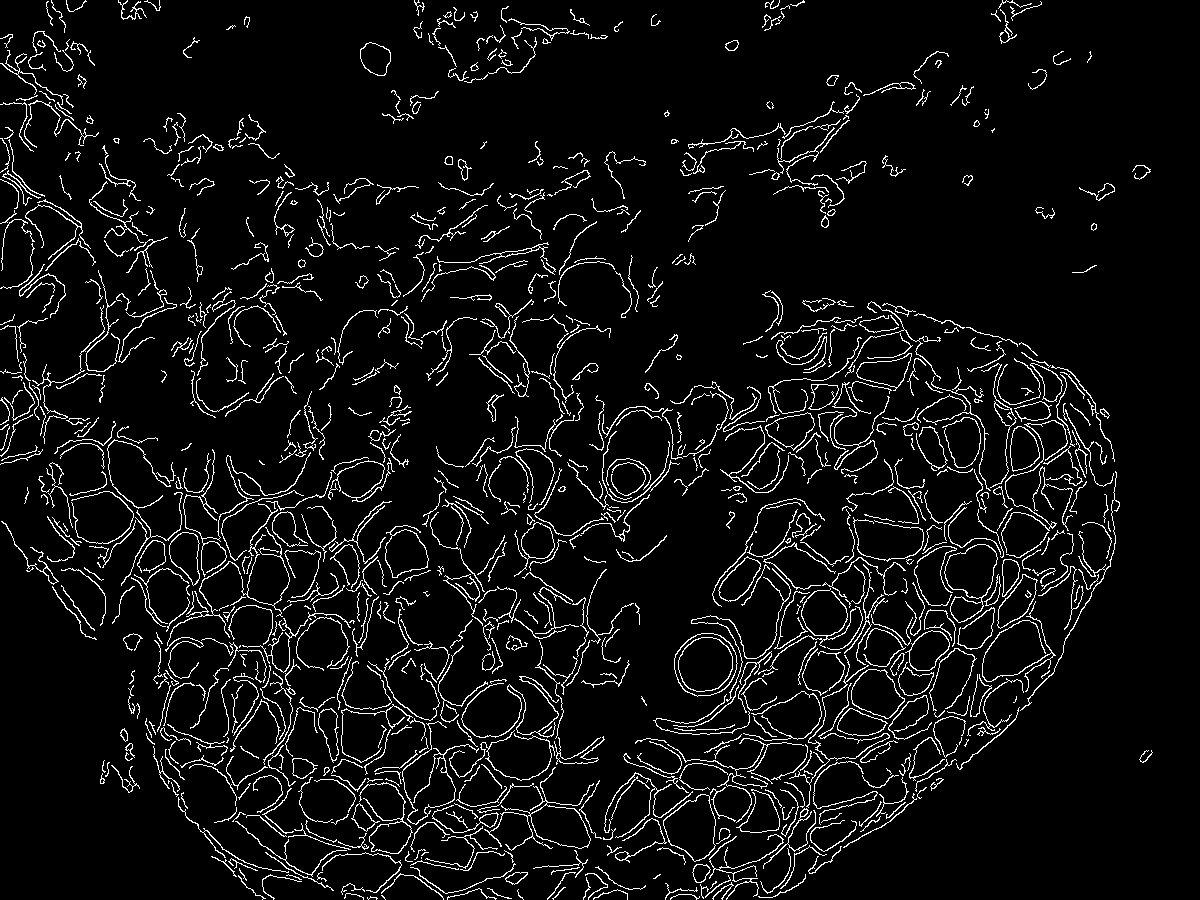
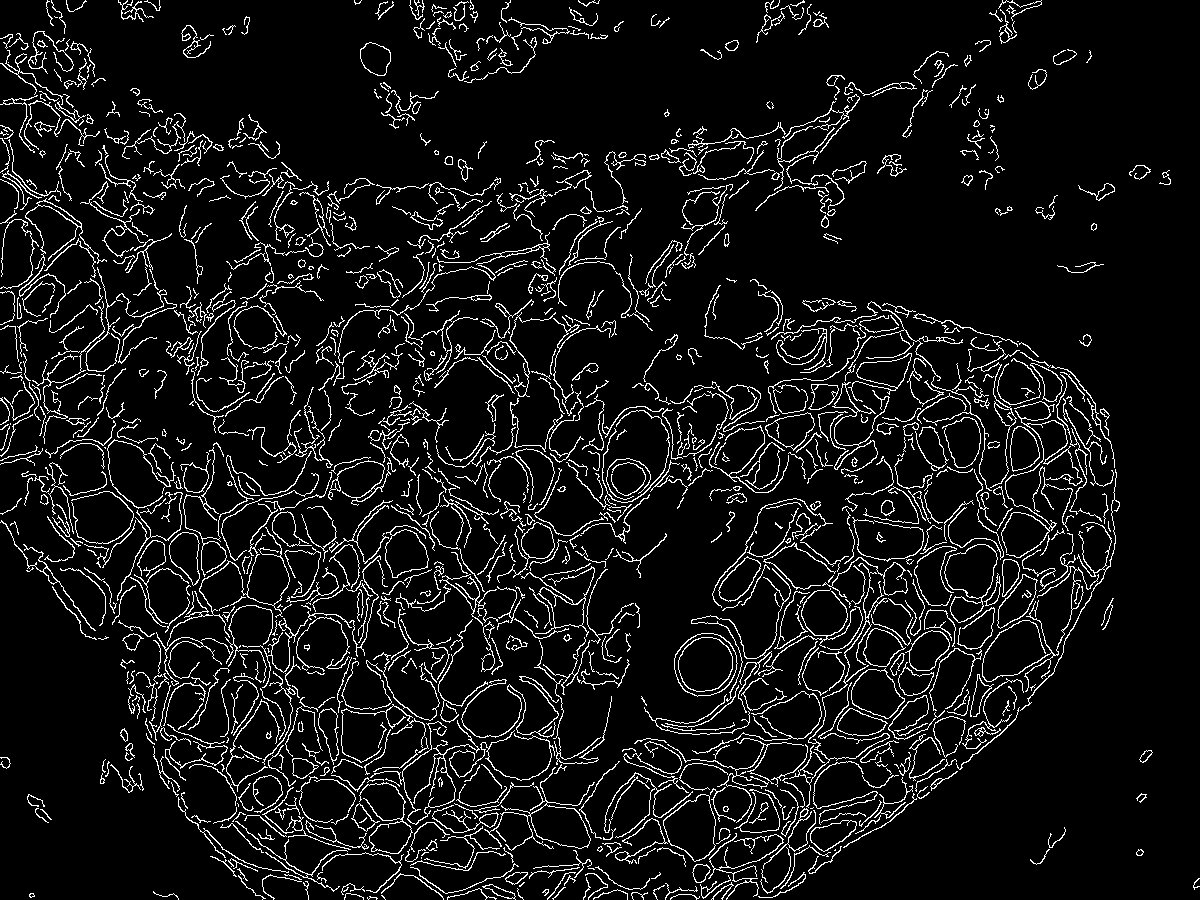
Fix gui cycle bug

diff --git a/src/imageProcessing/ImageProcessing.java b/src/imageProcessing/ImageProcessing.java
@@ -6,14 +6,13 @@ import org.opencv.core.Core;
 import org.opencv.core.KeyPoint;
 import org.opencv.core.Mat;
 import org.opencv.core.MatOfKeyPoint;
-import org.opencv.features2d.AgastFeatureDetector;
 import org.opencv.features2d.Feature2D;
 import org.opencv.features2d.Features2d;
+import org.opencv.features2d.SIFT;
 import org.opencv.imgcodecs.Imgcodecs;
 import org.opencv.imgproc.Imgproc;
 
 import java.util.ArrayList;
-import java.util.Collections;
 import java.util.List;
 
 public class ImageProcessing {
@@ -46,44 +45,46 @@ public class ImageProcessing {
         // ------------------------ KEYPOINTS DETECTION ------------------------
 
         // Create a detector
-        Feature2D detector = AgastFeatureDetector.create();
+        Feature2D detector = SIFT.create(0, 3, 0.04, 10, 1.6);
 
         // Detect keypoints in the image
-        MatOfKeyPoint keypoints = new MatOfKeyPoint();
-        detector.detect(edges, keypoints);
+        MatOfKeyPoint allKeypoints = new MatOfKeyPoint();
+        detector.detect(input, allKeypoints);
 
         // Draw keypoints on the image
         Mat outputImage = new Mat();
-        Features2d.drawKeypoints(edges, keypoints, outputImage);
+        Features2d.drawKeypoints(edges, allKeypoints, outputImage);
 
         // Save the marked keypoints image
-        Imgcodecs.imwrite("img/keypoints.png", outputImage);
+        Imgcodecs.imwrite("img/allKeypoints.png", outputImage);
 
         // ------------------------ KEYPOINTS LIST ------------------------
 
         List<Point> vertices = new ArrayList<>();
-        List<KeyPoint> keyPointsList = keypoints.toList();
-        int keyPointsAdded = 0;
+        List<KeyPoint> keyPointsList = allKeypoints.toList();
+        List<KeyPoint> validKeyPointsList = new ArrayList<>();
+        MatOfKeyPoint validKeyPoints = new MatOfKeyPoint();
 
-        // Reduce point number to MAX_KEYPOINTS
-        Collections.shuffle(keyPointsList);
+        // Get the vertices from the keypoints
         for (KeyPoint keyPoint : keyPointsList) {
-            if (keyPointsAdded >= Main.MAX_KEYPOINTS) break;
-            vertices.add(new Point((int) keyPoint.pt.x, (int) keyPoint.pt.y));
-            keyPointsAdded++;
-        }
-
-        // Remove points that are too close to each other
-        for (int i = 0; i < vertices.size(); i++) {
-            Point point = vertices.get(i);
-            for (int j = i + 1; j < vertices.size(); j++) {
-                Point otherPoint = vertices.get(j);
-                if (point.distanceTo(otherPoint) < Main.POINT_SPACING) {
-                    vertices.remove(j);
-                    j--;
+            if (edges.get((int) keyPoint.pt.y, (int) keyPoint.pt.x)[0] == 255) {
+                Point point = new Point((int) keyPoint.pt.x, (int) keyPoint.pt.y);
+                if (!vertices.contains(point)) {
+                    validKeyPointsList.add(keyPoint);
+                    vertices.add(point);
                 }
             }
         }
+
+        System.out.println("Number of vertices: " + vertices.size());
+        validKeyPoints.fromList(validKeyPointsList);
+
+        // Draw keypoints on the image
+        Mat validKeypoints = new Mat();
+        Features2d.drawKeypoints(edges, validKeyPoints, validKeypoints);
+
+        // Save the marked keypoints image
+        Imgcodecs.imwrite("img/keypoints.png", validKeypoints);
 
         return vertices;
     }

diff --git a/src/graphs/TissueGraph.java b/src/graphs/TissueGraph.java
@@ -49,18 +49,32 @@ public class TissueGraph {
 
         cycleBase.getCycleBasis().getCycles().forEach(cycle -> {
             List<Point> currentCycle = new ArrayList<>();
+            DefaultEdge startEdge = cycle.get(0);
+            DefaultEdge nextEdge = cycle.get(1);
             cycle.forEach(defaultEdge -> {
-                Point source = graph.getEdgeSource(defaultEdge);
-                Point target = graph.getEdgeTarget(defaultEdge);
-                if (!currentCycle.contains(source)) currentCycle.add(source);
-                if (!currentCycle.contains(target)) currentCycle.add(target);
+                if (defaultEdge.equals(startEdge)) {
+                    if (graph.getEdgeSource(nextEdge).equals(graph.getEdgeSource(startEdge)) || graph.getEdgeTarget(nextEdge).equals(graph.getEdgeSource(startEdge))) {
+                        currentCycle.add(graph.getEdgeSource(startEdge));
+                    } else {
+                        currentCycle.add(graph.getEdgeTarget(startEdge));
+                    }
+                } else {
+                    if (currentCycle.contains(graph.getEdgeSource(defaultEdge))) {
+                        currentCycle.add(graph.getEdgeTarget(defaultEdge));
+                    } else {
+                        currentCycle.add(graph.getEdgeSource(defaultEdge));
+                    }
+                }
+
             });
             allCycles.add(currentCycle);
         });
 
         List<List<Point>> cycleList = new ArrayList<>(allCycles.stream().toList());
-        cycleList.sort((o1, o2) -> o2.size() - o1.size());
+        cycleList.sort((o1, o2) -> o1.size() - o2.size());
 
         return cycleList;
     }
+
+
 }

diff --git a/src/main/Main.java b/src/main/Main.java
@@ -7,11 +7,9 @@ import javax.swing.*;
 public class Main {
 
     // PARAMETERS
-    public static final int MAX_KEYPOINTS = 10_000;
-    public static final int CANNY_THRESHOLD1 = 80;
-    public static final int CANNY_THRESHOLD2 = 180;
-    public static final double POINT_SPACING = 8;
-    public static final int MIN_CYCLE_LENGTH = 10;
+    public static final int CANNY_THRESHOLD1 = 60;
+    public static final int CANNY_THRESHOLD2 = 150;
+    public static final int MIN_CYCLE_LENGTH = 1;
     public static final int MAX_CYCLE_LENGTH = 100;
 
     // MAX_KEYPOINTS set on 10_000 does not reduce number of generated points

diff --git a/src/graphs/Point.java b/src/graphs/Point.java
@@ -9,4 +9,22 @@ public record Point(int x, int y) {
     public double distanceTo(Point other) {
         return Math.sqrt(Math.pow(other.x() - x(), 2) + Math.pow(other.y() - y(), 2));
     }
+
+    @Override
+    public boolean equals(Object o) {
+        if (this == o) return true;
+        if (o == null || getClass() != o.getClass()) return false;
+
+        Point point = (Point) o;
+
+        if (x != point.x) return false;
+        return y == point.y;
+    }
+
+    @Override
+    public int hashCode() {
+        int result = x;
+        result = 31 * result + y;
+        return result;
+    }
 }

diff --git a/src/view/GUI.java b/src/view/GUI.java
@@ -108,6 +108,7 @@ public class GUI extends JFrame {
                 builder.append(point.toString());
                 builder.append(", ");
             }
+            builder.setCharAt(builder.length() - 2, ' ');
             model.addElement(builder.toString());
         }
 
